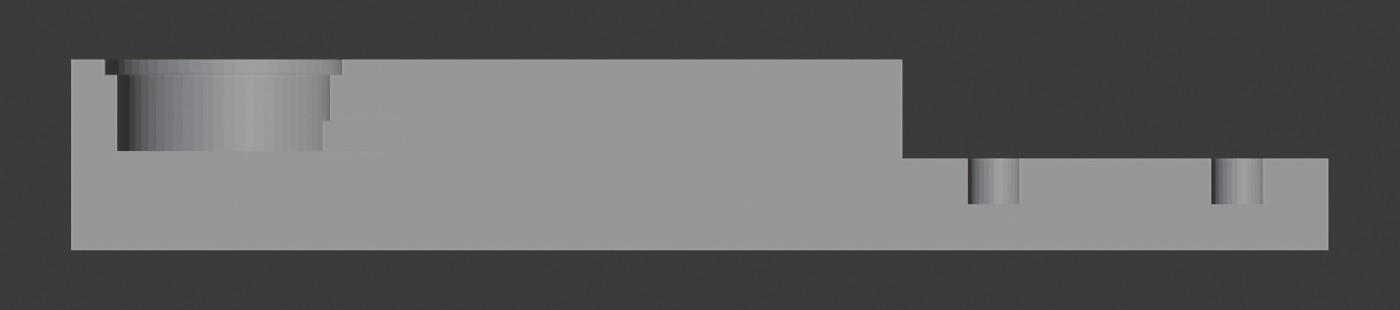
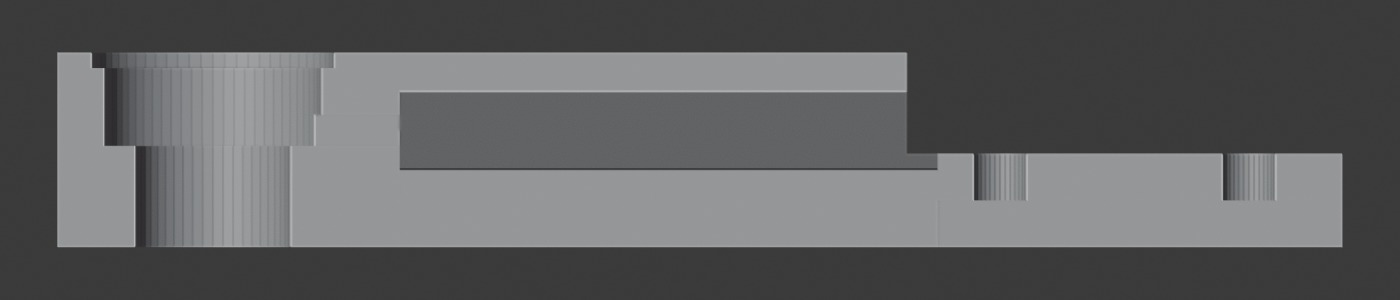
arm v3: gabled cable channel, access hole under the microphone
The channel had a flat ceiling 15 mm wide running 32.6 mm — the largest
unsupported span in the build. It is now 10 mm wide with a 45 deg gable
roof closing to a ridge where the ceiling used to be, so there is nothing
to bridge at all. Costs 2.6 g per arm; the side walls double to 5 mm and
bed contact goes to roughly 1040 mm2.

A Ø10 hole now runs from the cavity floor through to the underside of the
tip, so a seated board can be pushed back out with a rod instead of
levered against the 0.8 mm ledge. It drains the cavity too. The tip keeps
6.5 mm of solid material below the cavity and the hole (R5) never reaches
the seat ledge (R7.0-7.8).

Verified against the v2 STL: tab still exactly 6 mm thick with zero
material above z-6.5 across the whole hub pocket span.

Changed region(s): [[0.0307, 0.15, 0.9829, 0.84], [0.2764, 0.3, 0.7371, 0.66], [0.1843, 0.66, 0.215, 0.69]]

diff --git a/README.md b/README.md
@@ -102,8 +102,9 @@ different bundle.
 ### Arms do not flex — joints slip
 
 The obvious worry with a three-armed frame is that thin arms bend, and bending is
-geometric error. Run the numbers for a PETG channel section 20 × 12.5 mm with a
-2.5 mm wall, cantilevered 86.6 mm:
+geometric error. Run the numbers for the leanest section the arm has ever had — a
+PETG channel 20 × 12.5 mm on 2.5 mm walls, cantilevered 86.6 mm. The v3 arm is
+stiffer than this, so read the table as an upper bound:
 
 | Load | Tip deflection |
 |---|---|
@@ -168,6 +169,14 @@ around the board.
 A side tunnel carries the wires into the arm's channel and vents the cavity so it
 is not a sealed pressure chamber.
 
+Straight down through the cavity floor runs a **Ø10 hole to the underside of the
+arm**. Its job is to get a board back out: seated in a 0.3 mm recess and held by
+tape, a 15 mm disc is otherwise very hard to lift without levering against the
+0.8 mm ledge and breaking it. Push a rod up the hole instead and the board lifts
+straight out. It costs nothing structurally — 6.5 mm of solid tip sits below the
+cavity, the hole is R5 and the seat ledge is at R7.0–7.8, so they never meet — and
+it doubles as a drain for anything that finds its way into the cavity.
+
 Rain is unresolved. The port faces up, which is right for a source overhead and
 wrong for weather. A hydrophobic PTFE membrane under the board is the standard
 answer — it adds a phase shift, but an identical one on all three channels, so it
@@ -178,10 +187,11 @@ is common-mode and harmless.
 ![Section through the arm: microphone cavity, cable tunnel, channel](imgs/arm_section.jpg)
 
 The cable never leaves the structure. From the pads under the board it drops into
-the Ø12 cavity, crosses a 5 × 2 mm tunnel lying on the cavity floor, runs the
-length of the arm inside the U-channel, passes under the tab through a groove that
-the hub pocket floor closes into a tunnel, follows a groove in the lower plate to
-the centre, and drops through the Ø16 hole into the tube. It exits under the foot.
+the Ø14 cavity, crosses a 5 × 2 mm tunnel lying on the cavity floor, runs the
+length of the arm inside the gabled channel, passes under the tab through a groove
+that the hub pocket floor closes into a tunnel, follows a groove in the lower plate
+to the centre, and drops through the Ø16 hole into the tube. It exits under the
+foot.
 
 Five conductors per microphone (VDD, GND, SD, SCK, WS) fit the 10 mm² tunnel with
 room to spare. The tunnel also vents the microphone cavity, so it is not a sealed
@@ -245,18 +255,19 @@ able to go back to the file it came from.
 
 | STL | Qty | Mass | Size (mm) |
 |---|---|---|---|
-| `arm_v2_mic15.stl` | 3 | 11.9 g | 82.6 × 20 × 12.5 |
+| `arm_v3_mic15.stl` | 3 | 14.5 g | 82.6 × 20 × 12.5 |
 | `hub_top_v1.stl` | 1 | 26.4 g | 73.5 × 84.9 × 8 |
 | `hub_bottom_v1.stl` | 1 | 25.8 g | 73.5 × 84.9 × 8 |
 | `tube_collar_top_v2_tube25.stl` | 1 | 22.4 g | 52 × 52 × 31 |
 | `tube_foot_v2_tube25.stl` | 1 | 47.4 g | 176 × 203 × 32 |
 
-158 g of PETG in total, plus the tube.
+166 g of PETG in total, plus the tube.
 
-For the two-part arm, swap `arm_v2_mic15.stl` for `arm_body_v2_mic15.stl` (11.6 g,
+For the two-part arm, swap `arm_v3_mic15.stl` for `arm_body_v3_mic15.stl` (11.0 g,
 82.6 × 20 × 12.5) plus `arm_lid_v2_mic15_slide.stl` (2.0 g, 34.2 × 14.6 × 3.5) —
-13.6 g per arm, 163 g for the build. Same geometry and the same 86.6 mm radius as
-the one-piece; take one or the other, never both.
+13.0 g per arm, 161 g for the build. Same geometry and the same 86.6 mm radius as
+the one-piece; take one or the other, never both. The lid did not change between
+v2 and v3, so it keeps its v2 name.
 
 **Superseded — kept for reference, do not print:**
 
@@ -265,6 +276,8 @@ the one-piece; take one or the other, never both.
 | `arm_v1_mic13.stl` | seat built for a Ø13 board; the real board is Ø15 |
 | `arm_body_v1_mic13.stl` | same, and its lid needed glue |
 | `arm_lid_v1_mic13_glued.stl` | superseded by the slide-in lid |
+| `arm_v2_mic15.stl` | flat-ceilinged channel: a 15 mm bridge, 32.6 mm long |
+| `arm_body_v2_mic15.stl` | no access hole under the microphone |
 | `tube_collar_top_v1_tube25.stl` | pinch-clamp ears hang unsupported over the flange |
 | `tube_foot_v1_tube25.stl` | same |
 
@@ -290,20 +303,32 @@ flatter — but the root tab ends up floating 6.5 mm above the bed over a 28 × 
 area, and that is a support block you then have to dig out of PETG. Printed the
 right way up, the tab and the side walls sit flat on the bed.
 
-What that leaves is three internal ceilings, and every one of them is a **bridge,
-not a support** — the extruder pulls the filament between two walls, nothing is
-deposited underneath, and none of these surfaces is one anybody sees or measures:
+The cable channel used to be the problem: 15 mm wide with a flat ceiling, it was a
+32.6 mm long bridge and by far the largest unsupported span in the build. In v3 it
+is **gabled** — the walls run straight up to z −7.5 and then close at 45° to a
+ridge at z −2.5, where the flat ceiling used to be. Nothing is bridged, because
+every layer of the roof overhangs the one below it by less than its own width.
+That is a better answer than simply narrowing the span: a 45° roof does not sag at
+all, whereas a short bridge still sags a little.
+
+The channel is 10 mm wide instead of 15, which costs 2.6 g per arm and buys two
+things besides the roof — the side walls double from 2.5 to 5 mm, and with them
+the bed contact, to roughly 1040 mm².
+
+![Arm cross-section: the gabled cable channel](imgs/arm_channel.jpg)
+
+What is left are two small ceilings, and both are genuine bridges — the extruder
+pulls the filament between two walls, nothing is deposited underneath, and neither
+surface is one anybody sees or measures:
 
 | Ceiling | Span | Where |
 |---|---|---|
-| Cable channel | 15 mm | full length of the arm |
 | Cable tunnel | 5 mm | between cavity and channel |
-| Tab cable groove | 5 mm | under the root tab |
+| Tab cable groove | 12 mm | under the root tab |
 
-PETG bridges these fine with the part cooling fan on. Use a brim — bed contact is
-only about 950 mm², because the beam touches the plate on two 2.5 mm walls.
+PETG bridges these fine with the part cooling fan on; use a brim anyway.
 
-The two-part arm has only the last two: without a lid over it, the body's cable
+The two-part arm has only these same two: without a lid over it, the body's cable
 channel has no ceiling at all.
 
 If you would rather not bridge at all, `arm_body_v2_mic15.stl` +
